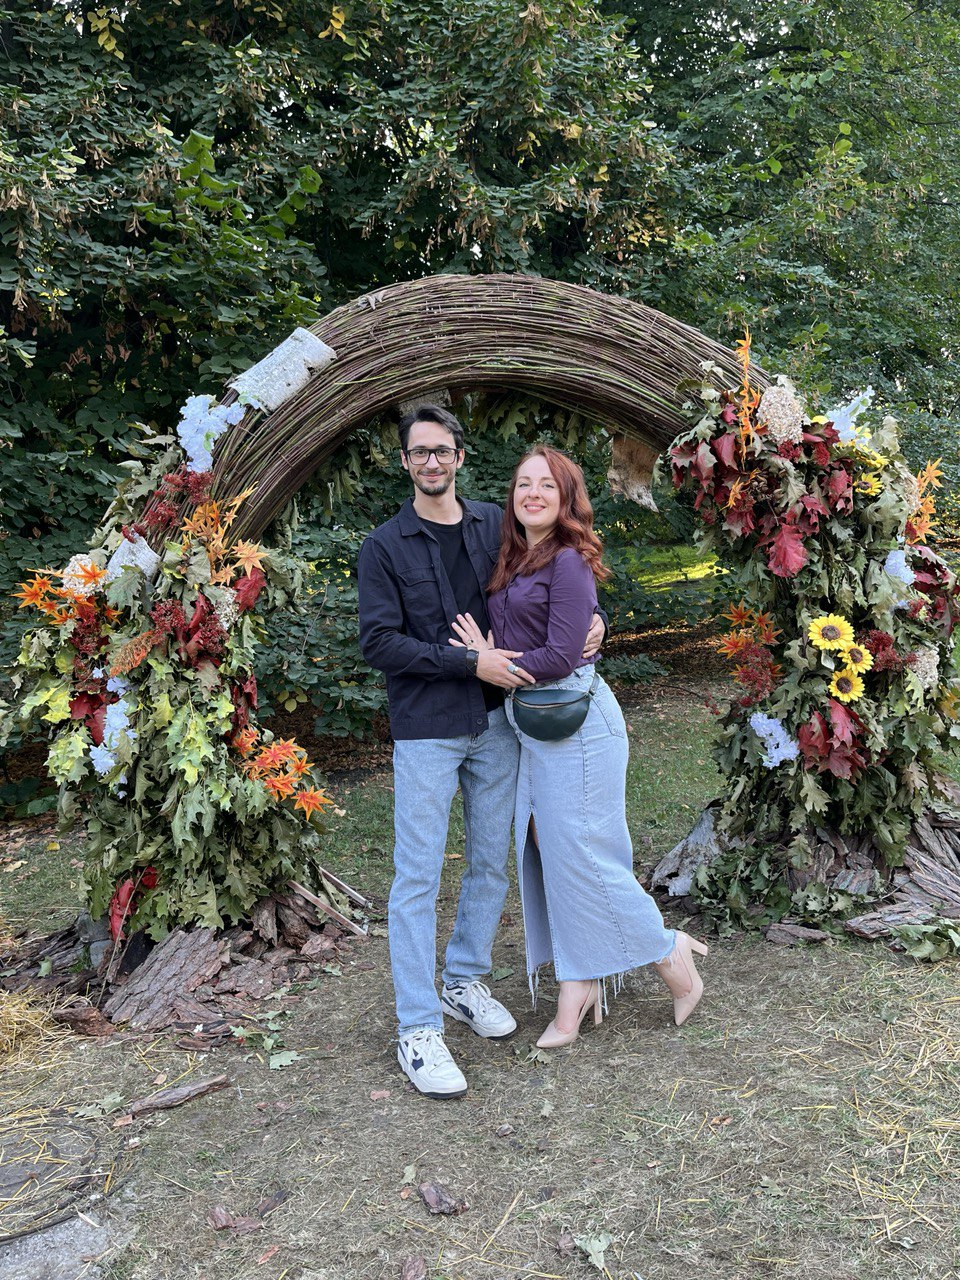
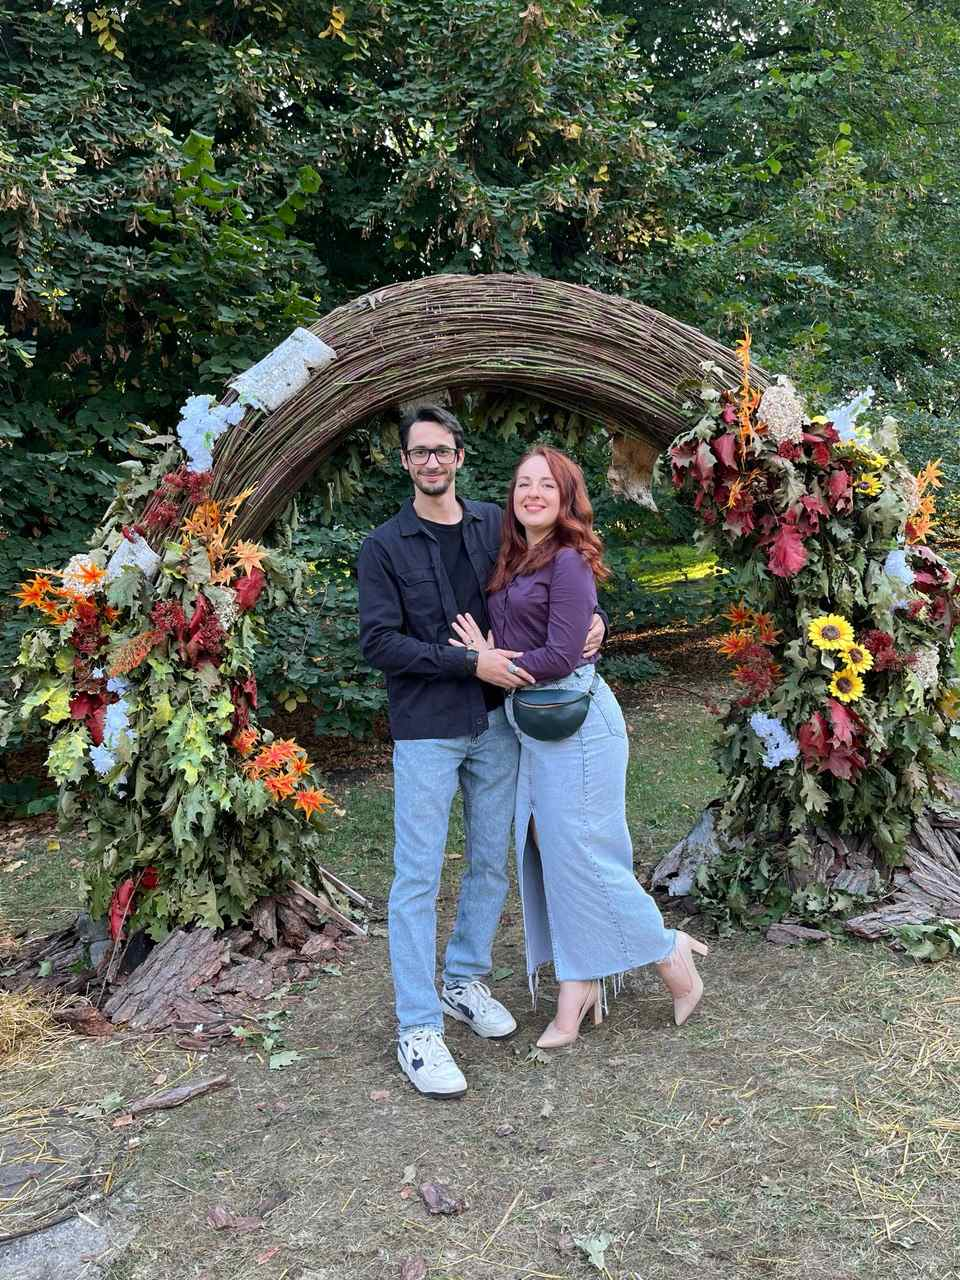
a

diff --git a/src/css/our_collection.css b/src/css/our_collection.css
@@ -270,7 +270,7 @@ a.control-next {
   display: block;
   background-image: url(/images/mobile-1x-335/gallery_1.jpg);
   background-repeat: no-repeat;
-  background-position: -43px -5px;
+  background-position: -59px -4px;
   background-size: contain;
   height: 375px;
   width: 488px;
